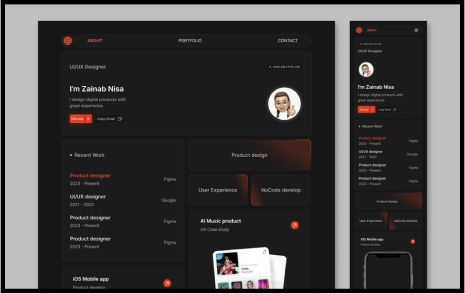
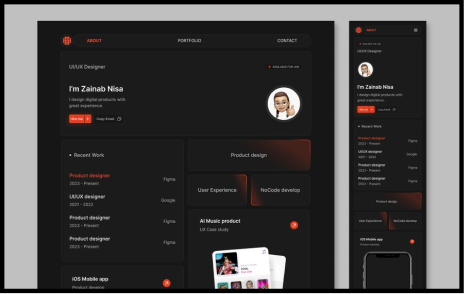
ajout de la partie projet v1

diff --git a/src/components/Projects/Projects.scss b/src/components/Projects/Projects.scss
@@ -1,6 +1,4 @@
 .Projects {
-
-
     h1 {
         position: relative;
         font-weight: 400;
@@ -8,19 +6,18 @@
         margin-top: 100px;
         text-align: center;
         margin: 0;
-        img{
+        img {
             display: inline-block;
             height: 117px;
             width: 112px;
-            
         }
         &::after {
-            content: '';
+            content: "";
             position: absolute;
             top: 8rem;
             width: 28rem;
             height: 15px;
-            background-image: url('../../assets/projects-img/ligne.svg');
+            background-image: url("../../assets/projects-img/ligne.svg");
             background-size: 360px 15px;
             background-position: center;
             background-repeat: no-repeat;
@@ -32,44 +29,54 @@
     .projects-container {
         display: grid;
         grid-template-columns: repeat(2, 536px);
-        grid-template-rows: repeat(1, 536px);
+        grid-template-rows: repeat(2, 536px);
         justify-content: center; /* Centre horizontalement la grille */
-        align-content: center; 
+        align-content: center;
         height: auto;
         padding-bottom: 100px;
         gap: 80px;
         width: 100%;
         .project {
             position: relative;
-            background-image: url('../../assets/projects-img/Size7.svg');
+            background-image: url("../../assets/projects-img/Size7.png");
             background-size: 536px 536px;
             background-position: center;
             background-repeat: no-repeat;
-            &::before{
-                content: "Not available yet";
-                display: flex;
-                justify-content: center;
-                align-items: center;
-                text-align: center;
-                position: absolute;
-                color: aliceblue;
-                width: 100%;
-                height: 100%;
-                background-color: rgba(0, 0, 0, 0.5);
-            }
-            .projet-c{
+            .projet-c {
                 margin-left: 42px;
             }
-            .project-image{
+            .project-image {
                 width: 460px;
                 height: 300px;
                 margin-top: 40px;
-                
+
                 border: 3px solid #000;
-                background-image: url('../../assets/projects-img/Rectangle6.png');
+                background-image: url("../../assets/projects-img/Rectangle6.png");
                 background-size: cover;
                 background-position: center;
                 background-repeat: no-repeat;
+            }
+            .projet-description {
+                display: flex;
+                flex-direction: row;
+                height: 120px;
+                width: 455px;
+                margin-top: 22px;
+                .project-titre {
+                    width: 340px;
+                    height: 120px;
+                    .project-name {
+                        font-size: 36px;
+                    }
+                    .project-sousTitre {
+                        font-size: 24px;
+                        margin-top: 12px;
+                    }
+                }
+                .projet-button {
+                    width: 110px;
+                    height: 120px;
+                }
             }
         }
     }

diff --git a/src/components/Projects/Projects.jsx b/src/components/Projects/Projects.jsx
@@ -1,5 +1,6 @@
 import "./Projects.scss";
 import Frame from "../../assets/projects-img/Frame18.svg";
+import { Link, useLocation } from "react-router-dom";
 
 const Projects = () => {
   return (
@@ -10,18 +11,27 @@ const Projects = () => {
         </h1>
         <div className="projects-container">
           <div className="project">
-            <div className="projet-c project-image"></div>
-            <div className="projet-c project-name">Project Name</div>
-            <div className="projet-c project-description">
-              Project Description
+            <div className="projet-c">
+              <div className="project-image"></div>
+              <div className="projet-description">
+                <div className="project-titre">
+                  <div className="project-name">Project Name</div>
+                  <div className="project-sousTitre">Project Description</div>
+                </div>
+                <div className="projet-button">
+                  <Link to="/" className="logo-link">
+                    <span className="text"></span>
+                  </Link>
+                </div>
+              </div>
             </div>
           </div>
           <div className="project">
-            <div className="projet-c project-image"></div>
-            <div className=" projet-c project-name">Project Name</div>
+            {/* <div className="projet-c project-image"></div>
+            <div className="projet-c project-name">Project Name</div>
             <div className="projet-c project-description">
               Project Description
-            </div>
+            </div>*/}
           </div>
         </div>
       </section>

diff --git a/src/components/Hero/Hero.jsx b/src/components/Hero/Hero.jsx
@@ -50,7 +50,7 @@ const Hero = () => {
               src={face}
               alt="Abstract face illustration"
             />
-            Abdourahman Abdillahi
+            Abdourahman - Captain iiro
           </span>
           <span className="absolute fleche" aria-hidden="true"></span>
           <img

diff --git a/src/components/Skills/Skills.jsx b/src/components/Skills/Skills.jsx
@@ -15,7 +15,7 @@ const Skills = () => {
         <span>Adonis js</span>
         <span>Expo</span>
         <span>Laravel</span>
-        <span>SCSS</span>
+        <span>Flutter</span>
       </section>
     </>
   );
